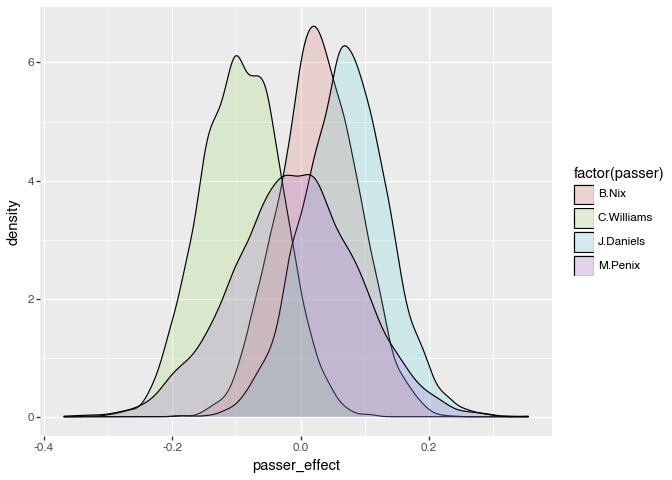
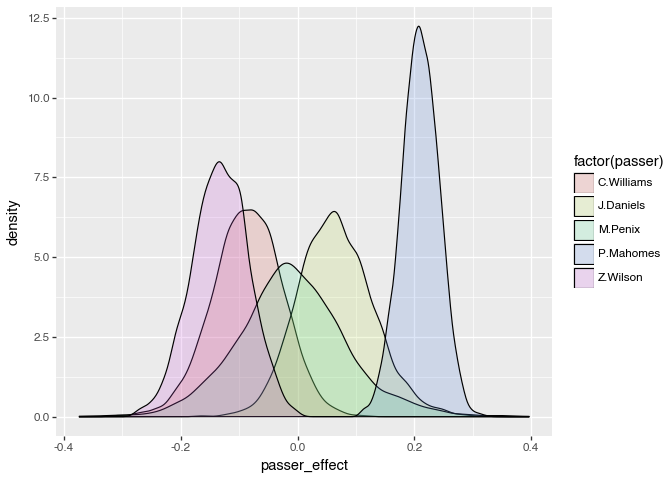
update qb epa to student_T

diff --git a/projects/qbs/qb_epa/qb_epa_basic_files/qb_epa_basic.md b/projects/qbs/qb_epa/qb_epa_basic_files/qb_epa_basic.md
@@ -97,8 +97,9 @@ with pm.Model(coords=coords) as model:
     # parameters
     sigma = pm.HalfNormal("sigma", sigma=0.5)
     sigma_passer = pm.HalfNormal("sigma_passer", sigma=0.5)
-    passer_offset = pm.Normal(
+    passer_offset = pm.StudentT(
         "passer_offset",
+        nu=3,
         mu=-0.2,
         sigma=1,
         dims="passer_id",
@@ -156,8 +157,8 @@ plot_priors(idata)
 
 
         Prior median:      -0.05
-        Prior lower 2.5%:  -2.40
-        Prior upper 97.5%:  2.20
+        Prior lower 2.5%:  -2.79
+        Prior upper 97.5%:  2.64
         
 
 ![](qb_epa_basic_files/figure-commonmark/cell-8-output-2.png)
@@ -172,7 +173,9 @@ with model:
     Initializing NUTS using jitter+adapt_diag...
     Multiprocess sampling (4 chains in 4 jobs)
     NUTS: [sigma, sigma_passer, passer_offset]
-    Sampling 4 chains for 1_000 tune and 1_000 draw iterations (4_000 + 4_000 draws total) took 70 seconds.
+    Sampling 4 chains for 1_000 tune and 1_000 draw iterations (4_000 + 4_000 draws total) took 189 seconds.
+    The rhat statistic is larger than 1.01 for some parameters. This indicates problems during sampling. See https://arxiv.org/abs/1903.08008 for details
+    The effective sample size per chain is smaller than 100 for some parameters.  A higher number is needed for reliable rhat and ess computation. See https://arxiv.org/abs/1903.08008 for details
 
     Output()
 
@@ -205,7 +208,7 @@ df_posterior = idata.posterior.to_dataframe().reset_index().merge(qb_ids.to_pand
 
 ``` python
 _qbs = ["B.Nix", "J.Daniels", "C.Williams", "M.Penix"]
-#_qbs = ['P.Mahomes', 'C.Williams', 'J.Daniels', 'M.Penix', 'Z.Wilson']
+_qbs = ['P.Mahomes', 'C.Williams', 'J.Daniels', 'M.Penix', 'Z.Wilson']
 
 
 df_passer_effect = df_posterior[df_posterior['passer'].isin(_qbs)]
@@ -235,15 +238,16 @@ pl.from_pandas(df_passer_effect).group_by(["passer"]).agg(
   white-space: pre-wrap;
 }
 </style>
-<small>shape: (4, 6)</small>
+<small>shape: (5, 6)</small>
 
-| passer       | median    | mean      | sd       | lower     | upper    |
-|--------------|-----------|-----------|----------|-----------|----------|
-| str          | f64       | f64       | f64      | f64       | f64      |
-| "J.Daniels"  | 0.070669  | 0.070105  | 0.06568  | -0.0222   | 0.198537 |
-| "B.Nix"      | 0.026895  | 0.027941  | 0.061208 | -0.061506 | 0.147177 |
-| "M.Penix"    | -0.008801 | -0.009233 | 0.096385 | -0.150668 | 0.179406 |
-| "C.Williams" | -0.093416 | -0.093161 | 0.061802 | -0.182682 | 0.024733 |
+| passer       | median    | mean      | sd       | lower     | upper     |
+|--------------|-----------|-----------|----------|-----------|-----------|
+| str          | f64       | f64       | f64      | f64       | f64       |
+| "P.Mahomes"  | 0.209872  | 0.209841  | 0.032279 | 0.162782  | 0.271996  |
+| "J.Daniels"  | 0.063571  | 0.065889  | 0.063851 | -0.02134  | 0.198155  |
+| "M.Penix"    | -0.011437 | -0.009045 | 0.093743 | -0.140407 | 0.191766  |
+| "C.Williams" | -0.084423 | -0.085925 | 0.05968  | -0.17104  | 0.02654   |
+| "Z.Wilson"   | -0.131937 | -0.132552 | 0.048175 | -0.2044   | -0.040123 |
 
 </div>
 
